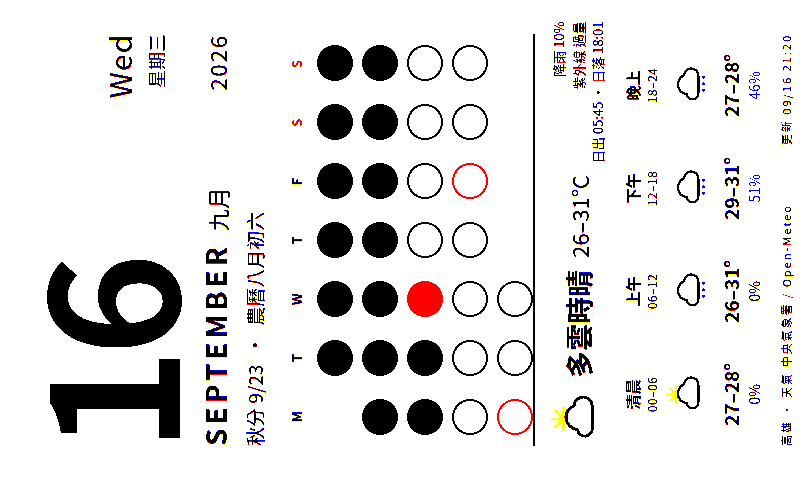
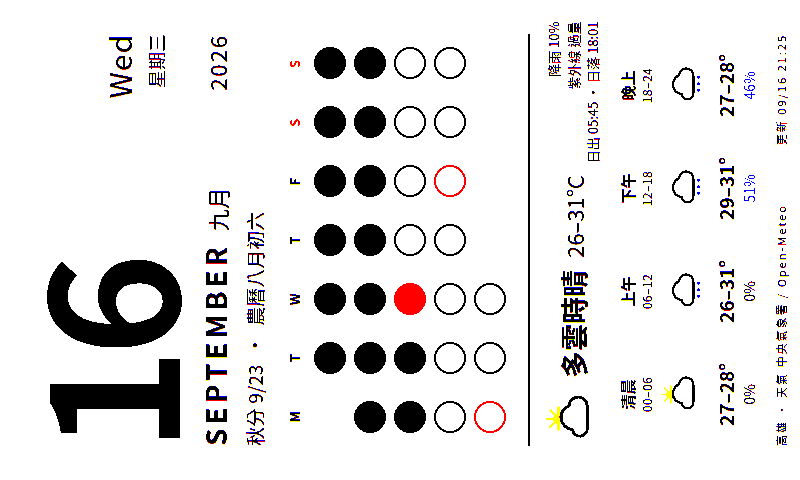
deploy: cc72ce2e71fa41cacd23f7dbcebf59f913a245b1

diff --git a/calendar.html b/calendar.html
@@ -20,16 +20,17 @@
   .today{margin-top:6px;font-size:19px;font-weight:500;min-height:26px;display:flex;gap:10px;align-items:center;}
   .today .hl{color:var(--accent);font-weight:700;}
   .today .lunar{font-weight:400;}
-  .grid{margin-top:20px;display:grid;grid-template-columns:repeat(7,1fr);row-gap:9px;justify-items:center;}
+  .grid{margin-top:18px;display:grid;grid-template-columns:repeat(7,1fr);row-gap:8px;justify-items:center;}
   .grid .h{font-size:13px;font-weight:600;letter-spacing:1px;padding-bottom:2px;}
   .grid .h.we{color:var(--accent);}
-  .dot{width:36px;height:36px;border-radius:50%;box-sizing:border-box;}
+  .dot{width:32px;height:32px;border-radius:50%;box-sizing:border-box;}
   .dot.past{background:#000;}
   .dot.now{background:var(--accent);}
   .dot.future{border:2.5px solid #000;}
   .dot.future.hol{border-color:var(--accent);}
   .dot.empty{visibility:hidden;}
-  .wx{margin-top:auto;border-top:2.5px solid #000;padding-top:14px;}
+  .wx{margin-top:auto;padding-top:22px;}
+  .wx .line{border-top:2.5px solid #000;padding-top:14px;}
   .wxhead{display:flex;align-items:center;gap:12px;white-space:nowrap;}
   .wxhead svg{width:56px;height:56px;flex:none;}
   .wxhead .desc{font-size:27px;font-weight:700;}
@@ -52,10 +53,10 @@
   <div class="month"><span class="en">SEPTEMBER</span><span class="zh">九月</span><span class="yr">2026</span></div>
   <div class="today"><span class="lunar">秋分 9/23</span><span>·</span><span class="lunar">農曆八月初六</span></div>
   <div class="grid"><div class="h">M</div><div class="h">T</div><div class="h">W</div><div class="h">T</div><div class="h">F</div><div class="h we">S</div><div class="h we">S</div><div class="dot empty"></div><div class="dot past" title="1"></div><div class="dot past" title="2"></div><div class="dot past" title="3"></div><div class="dot past" title="4"></div><div class="dot past" title="5"></div><div class="dot past" title="6"></div><div class="dot past" title="7"></div><div class="dot past" title="8"></div><div class="dot past" title="9"></div><div class="dot past" title="10"></div><div class="dot past" title="11"></div><div class="dot past" title="12"></div><div class="dot past" title="13"></div><div class="dot past" title="14"></div><div class="dot past" title="15"></div><div class="dot now" title="16"></div><div class="dot future" title="17"></div><div class="dot future" title="18"></div><div class="dot future" title="19"></div><div class="dot future" title="20"></div><div class="dot future" title="21"></div><div class="dot future" title="22"></div><div class="dot future" title="23"></div><div class="dot future" title="24"></div><div class="dot future hol" title="25"></div><div class="dot future" title="26"></div><div class="dot future" title="27"></div><div class="dot future hol" title="28"></div><div class="dot future" title="29"></div><div class="dot future" title="30"></div></div>
-  <div class="wx">
+  <div class="wx"><div class="line">
     <div class="wxhead"><svg viewBox="0 0 64 68" xmlns="http://www.w3.org/2000/svg"><g transform="translate(12 -4) scale(.6)"><circle cx="32" cy="32" r="11" fill="#f5c400"/><g stroke="#f5c400" stroke-width="4" stroke-linecap="round"><line x1="32" y1="32" x2="32" y2="8" transform="rotate(0 32 32)"/><line x1="32" y1="32" x2="32" y2="8" transform="rotate(45 32 32)"/><line x1="32" y1="32" x2="32" y2="8" transform="rotate(90 32 32)"/><line x1="32" y1="32" x2="32" y2="8" transform="rotate(135 32 32)"/><line x1="32" y1="32" x2="32" y2="8" transform="rotate(180 32 32)"/><line x1="32" y1="32" x2="32" y2="8" transform="rotate(225 32 32)"/><line x1="32" y1="32" x2="32" y2="8" transform="rotate(270 32 32)"/><line x1="32" y1="32" x2="32" y2="8" transform="rotate(315 32 32)"/></g></g><path d="M20 50h26a11 11 0 0 0 1-22 15 15 0 0 0-29 4 9 9 0 0 0 2 18z" fill="#fff" stroke="#000" stroke-width="3.5" stroke-linejoin="round"/></svg><span class="desc">多雲時晴</span><span class="temp">26–31°C</span>
       <div class="meta">降雨 10%<br>紫外線 過量<br>日出 05:45 · 日落 18:01</div></div>
     <div class="slots"><div class="slot"><div class="n">清晨</div><div class="hrs">00–06</div><svg viewBox="0 0 64 68" xmlns="http://www.w3.org/2000/svg"><g transform="translate(12 -4) scale(.6)"><circle cx="32" cy="32" r="11" fill="#f5c400"/><g stroke="#f5c400" stroke-width="4" stroke-linecap="round"><line x1="32" y1="32" x2="32" y2="8" transform="rotate(0 32 32)"/><line x1="32" y1="32" x2="32" y2="8" transform="rotate(45 32 32)"/><line x1="32" y1="32" x2="32" y2="8" transform="rotate(90 32 32)"/><line x1="32" y1="32" x2="32" y2="8" transform="rotate(135 32 32)"/><line x1="32" y1="32" x2="32" y2="8" transform="rotate(180 32 32)"/><line x1="32" y1="32" x2="32" y2="8" transform="rotate(225 32 32)"/><line x1="32" y1="32" x2="32" y2="8" transform="rotate(270 32 32)"/><line x1="32" y1="32" x2="32" y2="8" transform="rotate(315 32 32)"/></g></g><path d="M20 50h26a11 11 0 0 0 1-22 15 15 0 0 0-29 4 9 9 0 0 0 2 18z" fill="#fff" stroke="#000" stroke-width="3.5" stroke-linejoin="round"/></svg><div class="t">27–28°</div><div class="p dry">0%</div></div><div class="slot"><div class="n">上午</div><div class="hrs">06–12</div><svg viewBox="0 0 64 68" xmlns="http://www.w3.org/2000/svg"><path d="M20 50h26a11 11 0 0 0 1-22 15 15 0 0 0-29 4 9 9 0 0 0 2 18z" fill="#fff" stroke="#000" stroke-width="3.5" stroke-linejoin="round"/><g fill="#0040ff"><circle cx="24" cy="58" r="2.2"/><circle cx="34" cy="58" r="2.2"/><circle cx="44" cy="58" r="2.2"/></g></svg><div class="t">26–31°</div><div class="p dry">0%</div></div><div class="slot"><div class="n">下午</div><div class="hrs">12–18</div><svg viewBox="0 0 64 68" xmlns="http://www.w3.org/2000/svg"><path d="M20 50h26a11 11 0 0 0 1-22 15 15 0 0 0-29 4 9 9 0 0 0 2 18z" fill="#fff" stroke="#000" stroke-width="3.5" stroke-linejoin="round"/><g fill="#0040ff"><circle cx="24" cy="58" r="2.2"/><circle cx="34" cy="58" r="2.2"/><circle cx="44" cy="58" r="2.2"/></g></svg><div class="t">29–31°</div><div class="p ">51%</div></div><div class="slot"><div class="n">晚上</div><div class="hrs">18–24</div><svg viewBox="0 0 64 68" xmlns="http://www.w3.org/2000/svg"><path d="M20 50h26a11 11 0 0 0 1-22 15 15 0 0 0-29 4 9 9 0 0 0 2 18z" fill="#fff" stroke="#000" stroke-width="3.5" stroke-linejoin="round"/><g fill="#0040ff"><circle cx="24" cy="58" r="2.2"/><circle cx="34" cy="58" r="2.2"/><circle cx="44" cy="58" r="2.2"/></g></svg><div class="t">27–28°</div><div class="p ">46%</div></div></div>
-  </div>
-  <div class="foot"><span>高雄 · 天氣 中央氣象署 / Open-Meteo</span><span>更新 09/16 21:20</span></div>
+  </div></div>
+  <div class="foot"><span>高雄 · 天氣 中央氣象署 / Open-Meteo</span><span>更新 09/16 21:25</span></div>
 </div></body></html>
